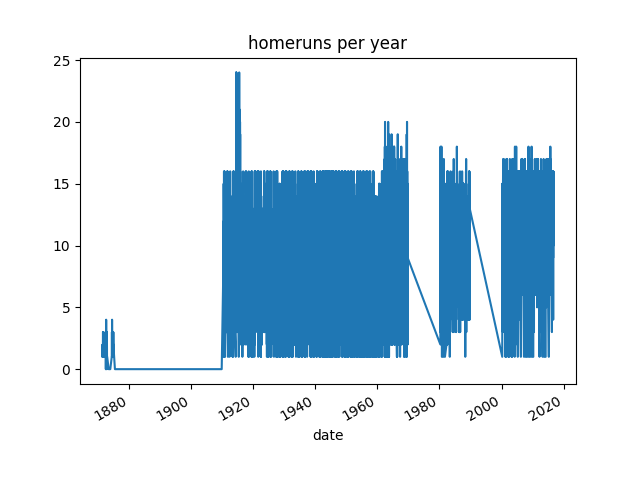
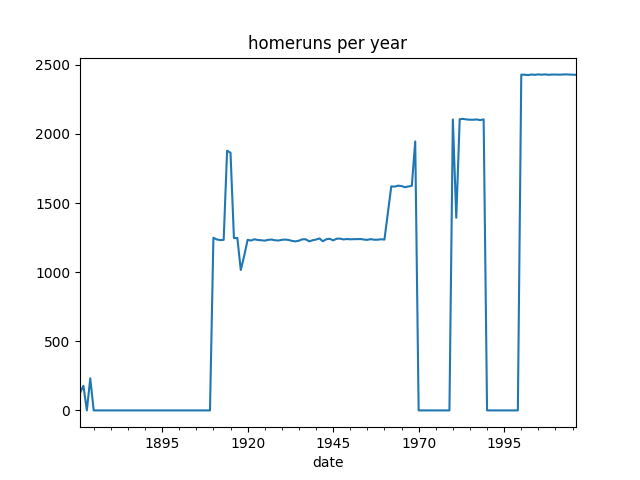
P1 Added graphs

diff --git a/practice_6/P1.py b/practice_6/P1.py
@@ -5,7 +5,9 @@ import pandas as pd
 import numpy as np 
 import seaborn as sns
 import matplotlib.pyplot as plt 
+import datetime
 from aux_func import *
+from graphs import *
 
 pd.set_option("display.max_rows", 20, "display.max_columns", 60)
 
@@ -92,25 +94,53 @@ if __name__ == "__main__":
     df_plot.info(memory_usage='deep')
 
     df_plot['date'] = pd.to_datetime(df_plot['date'], format="%Y%m%d")
+
     # 1) plot homeruns
 
-    df_g = df_plot.groupby(['date'])['h_homeruns'].count()
- 
-    plot =  df_g.plot(title="homeruns per year")
-    plot.get_figure().savefig(outfig.format("homeruns"))
+    # df_g = df_plot.groupby(pd.Grouper(key = 'date', freq='Y'))['h_homeruns'].count()
+    # plot =  df_g.plot(title="homeruns per year")
+    # plot.get_figure().savefig(outfig.format("homeruns"))
+
 
     # 2) plot score by manager
-    df_m = df_plot.groupby(['h_manager_name'])[['v_score', 'h_score']].agg( {'v_score' : ['min', 'mean', 'max'],
-                                                                             'h_score' : ['min', 'mean', 'max']})
+    # df_m = df_plot.groupby(['h_manager_name'])[['v_score']].agg( {'v_score' : ['max', 'mean', 'min']})
+    # df_m = df_m[df_m[('v_score', 'max')] > 25]
 
-    plot2 = df_m.plot(title="score by manager", rot=90, figsize=(30,15))
-    plot2.get_figure().savefig(outfig.format("score"))
+    # plot2 = df_m.plot(kind='barh', title="score by manager", figsize=(30,15))
+    # plot2.get_figure().savefig(outfig.format("score"))
+
 
     # 3) pairplot
-    sns.pairplot(df_plot).savefig(outfig.format("pairplot"))
+    # sns.pairplot(df_plot).savefig(outfig.format("pairplot"))
 
+    # 4) 
 
+    # df_games = df_plot.groupby(pd.Grouper(key = 'date', freq='Y'))[['v_hits']].count()
 
+    # plot =  df_games.plot(title="hits per 5 year", kind="box", vert=False)
+    # plot.get_figure().savefig(outfig.format("hits"))
+
+    # 5) 
+
+    # fig, ax = plt.subplots()
+    # sns.scatterplot(data=df_plot, x='h_passed_balls', y='h_score')
+    # plt.savefig(outfig.format("passed_score"))
+
+    # 6)
+
+    # date_from = pd.to_datetime("20000101", format = "%Y%m%d")
+    # date_to = pd.to_datetime("20160101", format = "%Y%m%d")
+
+    # df_hitmap = df_plot[(df_plot['date'] > date_from) & (df_plot['date'] < date_to)] 
+
+    # df_hitmap['year'] = df_hitmap['date'].dt.year
+    # df_hitmap['Month'] = df_hitmap['date'].dt.month
+
+    # fig, ax = plt.subplots()
+
+    # plt.figure(figsize=(16,6))
+    # sns.heatmap(df_hitmap.pivot_table(values='v_score', index=['year'], columns=['Month'], aggfunc=np.sum), annot=True, cmap="YlGnBu", cbar=True);
+    # plt.savefig(outfig.format("hitmap"))
     
 
 
